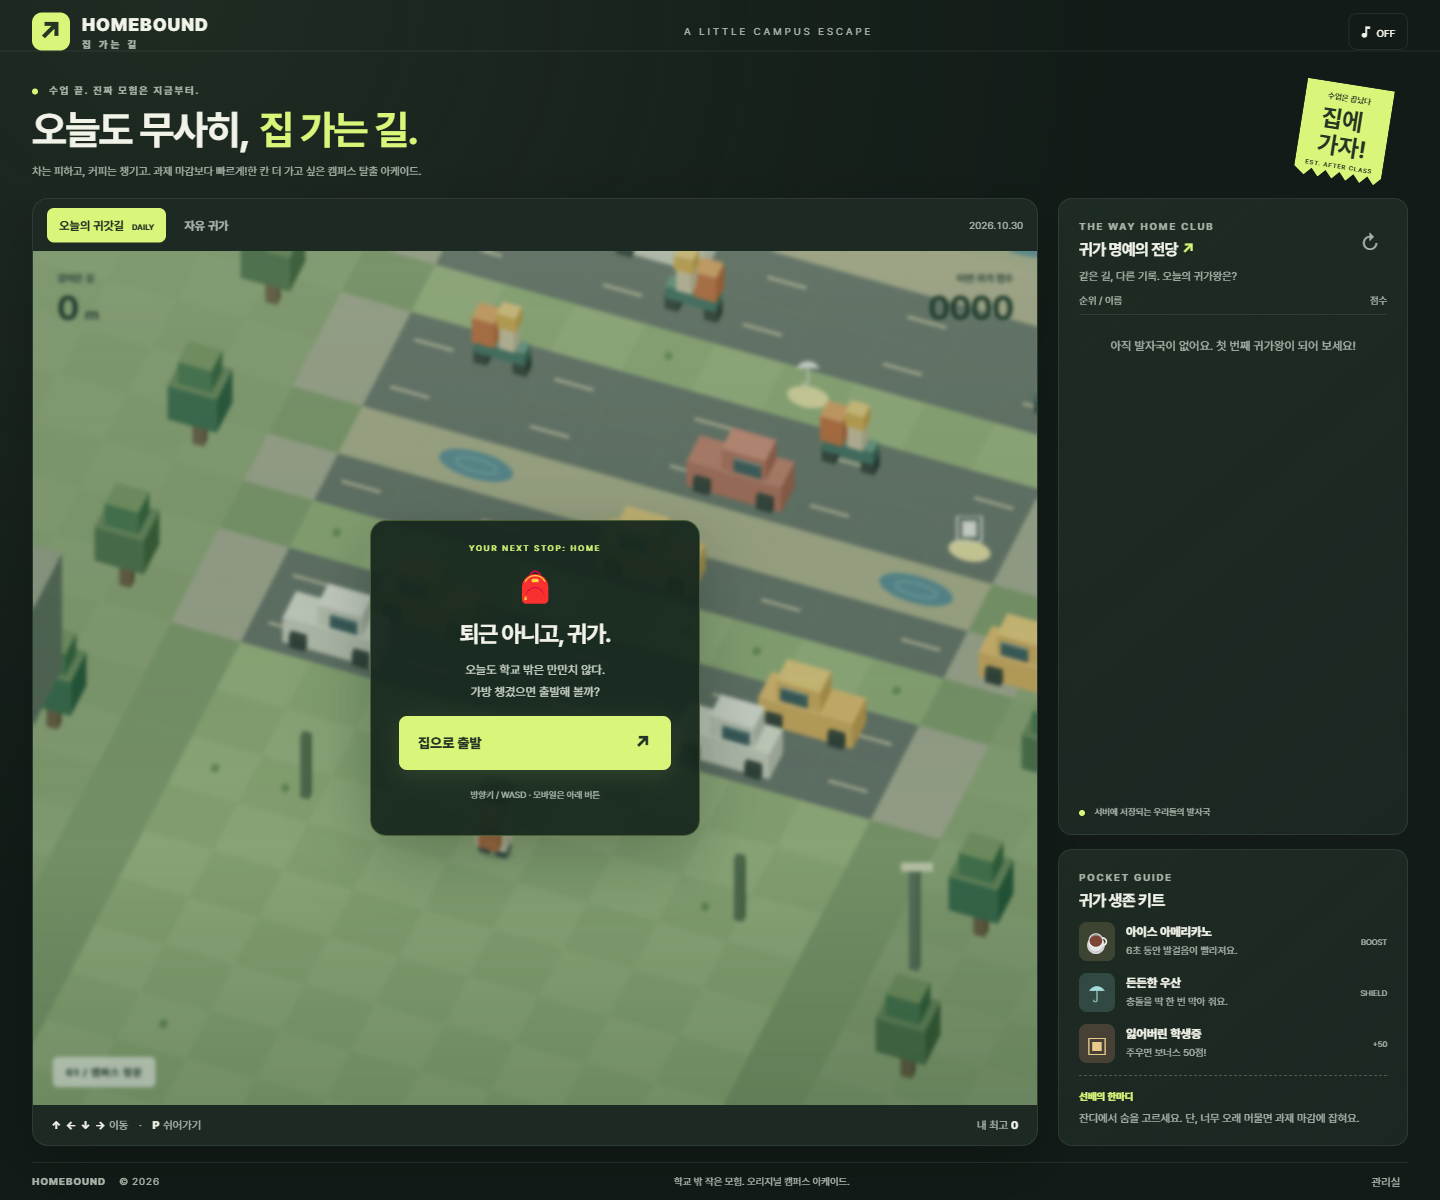
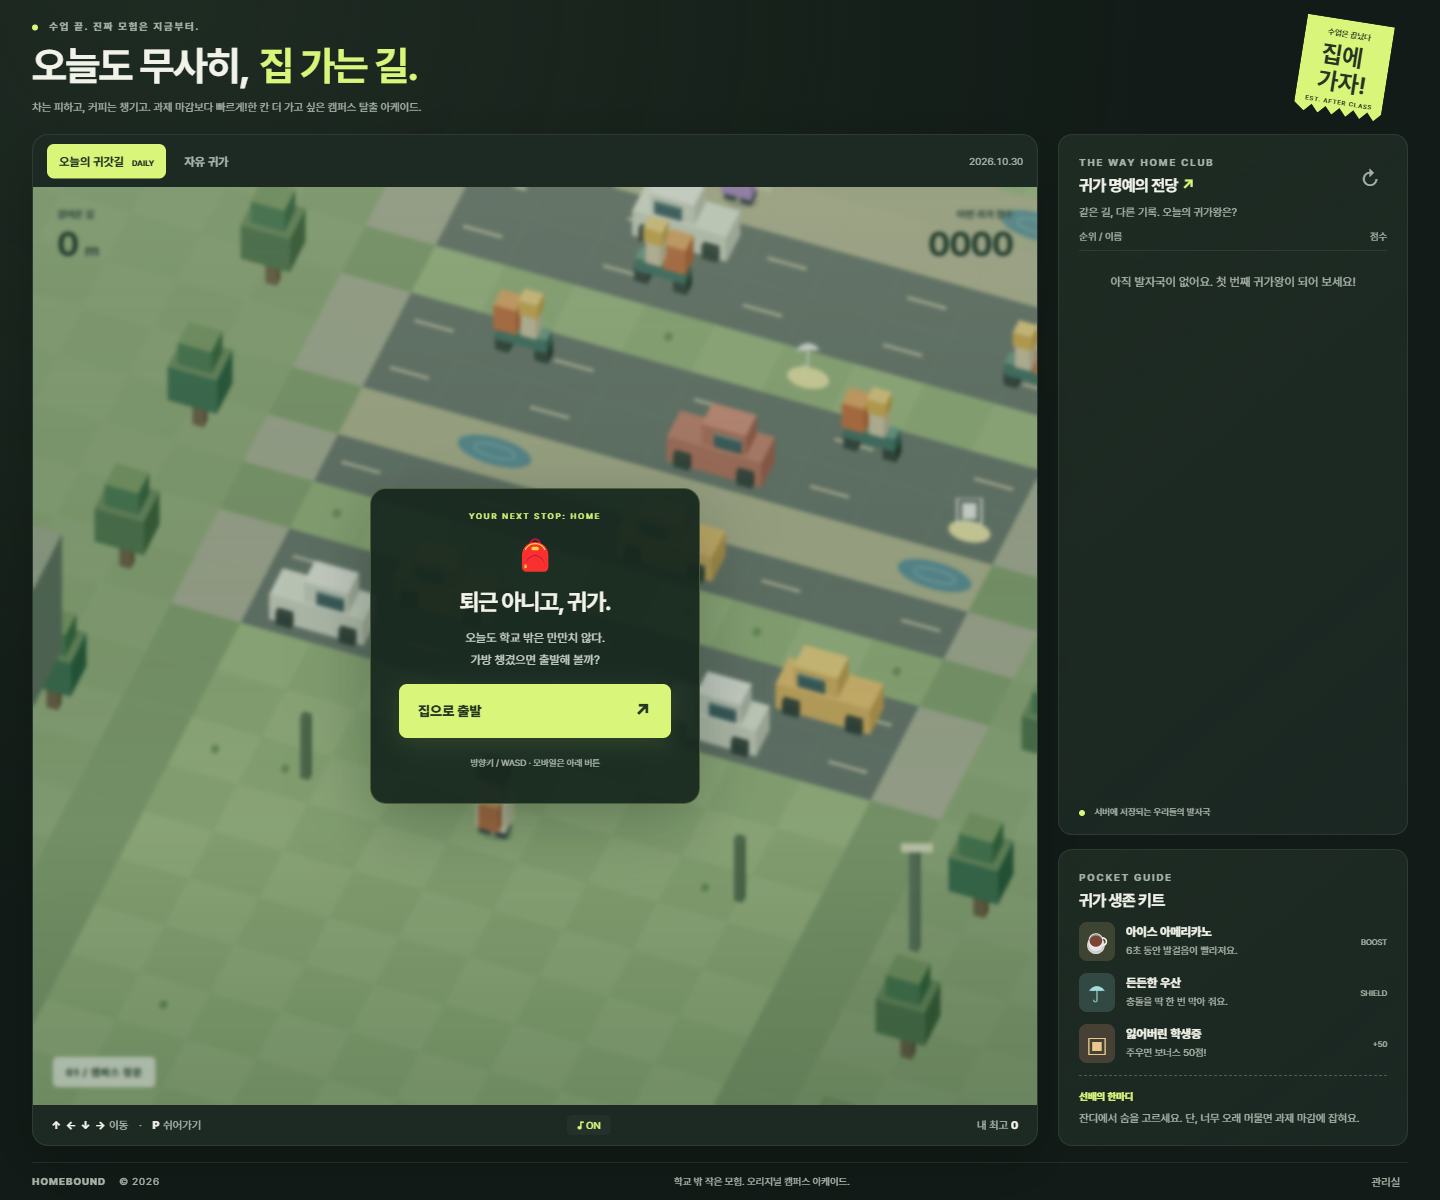
feat: remove lobby header and enable game music and effects

diff --git a/students/202355513/app/game.js b/students/202355513/app/game.js
@@ -1,13 +1,15 @@
 import {lane, obstacles, collision, score, random} from './engine.js';
+import {GameAudio} from './audio.js';
 const $ = id => document.getElementById(id);
 const canvas = $('game'), ctx = canvas.getContext('2d');
 let mode = 'daily', phase = 'welcome', run = null, config = {deadlineSeconds:18,trafficSpeed:1};
 let x = 4, row = 0, distance = 0, cards = 0, elapsed = 0, lastProgress = 0, lastMove = -1;
 let shield = false, boostUntil = 0, invincibleUntil = 0, effectUntil = 0, camera = 0, visualX = 4, visualRow = 0;
-let collected = new Set(), lanes = new Map(), lastFrame = 0, previewTime = 0, sound = false, audio;
+let collected = new Set(), lanes = new Map(), lastFrame = 0, previewTime = 0;
+const audio = new GameAudio();
 let best = 0, rankRequest = 0;
 const shell = $('game-shell');
-const lobbyElements = document.querySelectorAll('.header, .intro, aside, .notes, footer');
+const lobbyElements = document.querySelectorAll('.intro, aside, .notes, footer');
 let focused = false, nativeFullscreen = false;
 function setFocused(value) {
   focused = value;
@@ -45,8 +47,7 @@ async function api(path, options = {}) {
   return data;
 }
 function beep(freq = 440, duration = .06) {
-  if (!sound) return;
-  try { audio ||= new (window.AudioContext || window.webkitAudioContext)(); audio.resume(); const oscillator = audio.createOscillator(), gain = audio.createGain(); oscillator.type = 'sine'; oscillator.frequency.value = freq; gain.gain.setValueAtTime(.045,audio.currentTime); gain.gain.exponentialRampToValueAtTime(.001,audio.currentTime+duration); oscillator.connect(gain).connect(audio.destination); oscillator.start(); oscillator.stop(audio.currentTime+duration); } catch {}
+  audio.effect(freq, duration);
 }
 function toast(message, seconds = 2) { $('effect').textContent = message; effectUntil = elapsed + seconds; }
 function getLane(r) { if (!lanes.has(r)) lanes.set(r,lane(run?.seed || 1729,r)); return lanes.get(r); }
@@ -77,6 +78,7 @@ function setMode(next) {
 }
 async function start() {
   if (phase === 'starting') return;
+  audio.unlock();
   phase = 'starting'; $('start-error').textContent = ''; $('save-message').textContent = ''; $('start').disabled = true; $('retry').disabled = true;
   $('exit-focus').disabled = true;
   setFocused(true);
@@ -84,20 +86,21 @@ async function start() {
     run = await api('/api/runs',{method:'POST',body:JSON.stringify({mode})}); config = run.config;
     x=4;row=0;distance=0;cards=0;elapsed=0;lastProgress=0;lastMove=-1;camera=0;visualX=4;visualRow=0;shield=false;boostUntil=0;invincibleUntil=0;collected=new Set();lanes=new Map();
     $('welcome').hidden=true; $('result').hidden=true; $('paused').hidden=true; $('pause').hidden=false; $('deadline').hidden=false; $('effect').textContent=''; $('save').disabled=false; $('save-form').hidden=false;
-    $('daily').disabled=true; $('endless').disabled=true; phase='playing'; updateHUD(); canvas.focus({preventScroll:true}); beep(660,.1);
+    $('daily').disabled=true; $('endless').disabled=true; phase='playing'; audio.setPlaying(true); updateHUD(); canvas.focus({preventScroll:true}); beep(660,.1);
   } catch (error) { phase='welcome'; setFocused(false); $('daily').disabled=false; $('endless').disabled=false; $('result').hidden=true; $('welcome').hidden=false; $('start-error').textContent=`출발 준비 실패: ${error.message} 다시 눌러 주세요.`; }
   finally { $('start').disabled=false; $('retry').disabled=false; $('exit-focus').disabled=false; }
 }
 function finish(reason) {
   if (phase!=='playing') return;
+  audio.setPlaying(false);
   phase='over'; $('pause').hidden=true; $('deadline').hidden=true; $('effect').textContent=''; $('result').hidden=false;
   $('reason').textContent=reason; $('final-score').textContent=score(distance,cards).toLocaleString(); $('final-distance').textContent=`${distance}m 걸음 · 학생증 ${cards}개 수집`;
   $('result-title').textContent = distance >= 65 ? '귀가의 달인 인정!' : distance >= 30 ? '집이 보일 뻔했는데!' : '오늘의 귀가 종료!';
   best=Math.max(best,score(distance,cards)); try { localStorage.setItem('homebound-best',String(best)); } catch {}
   $('best').innerHTML=`내 최고 <b>${best}</b>`; beep(150,.25); $('nickname').focus({preventScroll:true});
 }
-function pause() { if(phase==='playing'){phase='paused';$('paused').hidden=false;$('resume').focus({preventScroll:true});} }
-function resume() { if(phase==='paused'){setFocused(true);phase='playing';$('paused').hidden=true;canvas.focus({preventScroll:true});} }
+function pause() { if(phase==='playing'){phase='paused';audio.setPlaying(false);$('paused').hidden=false;$('resume').focus({preventScroll:true});} }
+function resume() { if(phase==='paused'){audio.unlock();setFocused(true);phase='playing';audio.setPlaying(true);$('paused').hidden=true;canvas.focus({preventScroll:true});} }
 function move(direction) {
   const inputTime = performance.now() / 1000;
   if(phase!=='playing' || inputTime-lastMove < (elapsed<boostUntil?.115:.17)) return;
@@ -195,7 +198,7 @@ $('start').onclick=start;$('retry').onclick=start;$('pause').onclick=pause;$('re
 $('exit-focus').onclick=showLobby;$('fullscreen').onclick=toggleFullscreen;
 $('daily').onclick=()=>setMode('daily');$('endless').onclick=()=>setMode('endless');$('refresh').onclick=refreshRanking;
 $('back').onclick=()=>{phase='welcome';setFocused(false);run=null;lanes.clear();row=0;distance=0;cards=0;x=4;camera=0;shield=false;invincibleUntil=0;$('result').hidden=true;$('welcome').hidden=false;$('daily').disabled=false;$('endless').disabled=false;updateHUD();$('start').focus({preventScroll:true});};
-$('sound').onclick=()=>{sound=!sound;$('sound').setAttribute('aria-pressed',String(sound));$('sound').querySelector('span').textContent=sound?'ON':'OFF';$('sound').title=sound?'효과음 끄기':'효과음 켜기';beep(700);};
+$('sound').onclick=()=>{audio.setEnabled(!audio.enabled);$('sound').setAttribute('aria-pressed',String(audio.enabled));$('sound').querySelector('span').textContent=audio.enabled?'ON':'OFF';$('sound').title=audio.enabled?'배경음과 효과음 끄기':'배경음과 효과음 켜기';$('sound').setAttribute('aria-label',$('sound').title);};
 document.addEventListener('keydown',event=>{if($('admin-dialog').open)return;const key=event.key.toLowerCase();if(key==='escape'&&focused&&!document.fullscreenElement){event.preventDefault();showLobby();return;}if(['INPUT','TEXTAREA'].includes(event.target.tagName))return;const directions={arrowup:'up',w:'up',arrowdown:'down',s:'down',arrowleft:'left',a:'left',arrowright:'right',d:'right'};if(directions[key]&&phase==='playing'){event.preventDefault();move(directions[key]);}if(key==='p'&&!event.repeat){if(phase==='playing')pause();else if(phase==='paused')resume();}});
 document.querySelectorAll('[data-move]').forEach(button=>button.addEventListener('pointerdown',event=>{event.preventDefault();move(button.dataset.move);}));
 let touchStart=null;canvas.addEventListener('pointerdown',event=>{touchStart=[event.clientX,event.clientY];});canvas.addEventListener('pointerup',event=>{if(!touchStart)return;const dx=event.clientX-touchStart[0],dy=event.clientY-touchStart[1];touchStart=null;if(Math.max(Math.abs(dx),Math.abs(dy))<15)move('up');else move(Math.abs(dx)>Math.abs(dy)?dx>0?'right':'left':dy>0?'down':'up');});canvas.addEventListener('pointercancel',()=>touchStart=null);

diff --git a/students/202355513/app/audio.js b/students/202355513/app/audio.js
@@ -1,0 +1,102 @@
+// Original, lightweight arcade music. No audio downloads or third-party tracks.
+export class GameAudio {
+  enabled = true;
+  musicPlaying = false;
+  context = null;
+  timer = null;
+  notes = new Set();
+  step = 0;
+  nextBeat = 0;
+
+  unlock() {
+    if (!this.enabled) return;
+    try {
+      if (!this.context) {
+        const Audio = window.AudioContext || window.webkitAudioContext;
+        if (!Audio) return;
+        this.context = new Audio();
+        this.music = this.context.createGain();
+        this.music.gain.value = .18;
+        this.music.connect(this.context.destination);
+        this.effects = this.context.createGain();
+        this.effects.gain.value = .4;
+        this.effects.connect(this.context.destination);
+      }
+      this.context.resume().then(() => this.syncMusic()).catch(() => {});
+    } catch { /* Audio support is optional; gameplay stays available. */ }
+  }
+
+  tone(frequency, duration, when, volume, type, bus, music = false) {
+    const ctx = this.context;
+    if (!ctx || ctx.state !== 'running' || !this.enabled) return;
+    const oscillator = ctx.createOscillator(), gain = ctx.createGain();
+    oscillator.type = type;
+    oscillator.frequency.value = frequency;
+    gain.gain.setValueAtTime(0, when);
+    gain.gain.linearRampToValueAtTime(volume, when + .008);
+    gain.gain.exponentialRampToValueAtTime(.0001, when + duration);
+    oscillator.connect(gain).connect(bus);
+    const note = {oscillator, gain, music};
+    this.notes.add(note);
+    oscillator.onended = () => { oscillator.disconnect(); gain.disconnect(); this.notes.delete(note); };
+    oscillator.start(when);
+    oscillator.stop(when + duration + .01);
+  }
+
+  effect(frequency = 440, duration = .06) {
+    if (this.context) this.tone(frequency, duration, this.context.currentTime, .12, 'sine', this.effects);
+  }
+
+  setPlaying(value) {
+    this.musicPlaying = value;
+    this.syncMusic();
+  }
+
+  setEnabled(value) {
+    this.enabled = value;
+    if (value) this.unlock();
+    this.syncMusic();
+    if (!value) this.stopNotes(false);
+  }
+
+  stopNotes(musicOnly) {
+    for (const note of this.notes) {
+      if (musicOnly && !note.music) continue;
+      note.gain.gain.cancelScheduledValues(this.context.currentTime);
+      note.gain.gain.setValueAtTime(0, this.context.currentTime);
+      try { note.oscillator.stop(); } catch {}
+      this.notes.delete(note);
+    }
+  }
+
+  syncMusic() {
+    const active = this.enabled && this.musicPlaying && this.context?.state === 'running';
+    if (!active) {
+      clearInterval(this.timer);
+      this.timer = null;
+      if (this.context) this.stopNotes(true);
+      return;
+    }
+    if (this.timer) return;
+    this.nextBeat = this.context.currentTime + .04;
+    this.schedule();
+    this.timer = setInterval(() => this.schedule(), 60);
+  }
+
+  schedule() {
+    if (!this.context || this.context.state !== 'running') return;
+    // A four-bar pentatonic melody over C / Am / F / G, at 112 BPM.
+    const melody = [72,76,79,76,74,72,67,0,69,72,76,79,76,72,69,0,
+                    77,79,81,79,77,76,72,0,74,79,76,74,72,67,72,0];
+    const bass = [48,45,41,43];
+    if (this.nextBeat < this.context.currentTime) this.nextBeat = this.context.currentTime + .02;
+    while (this.nextBeat < this.context.currentTime + .12) {
+      const pitch = melody[this.step % melody.length];
+      const frequency = midi => 440 * 2 ** ((midi - 69) / 12);
+      if (pitch) this.tone(frequency(pitch), .21, this.nextBeat, .12, 'triangle', this.music, true);
+      if (this.step % 2 === 0) this.tone(frequency(bass[Math.floor(this.step / 8) % 4]), .32, this.nextBeat, .16, 'sine', this.music, true);
+      this.step++;
+      this.nextBeat += 60 / 112 / 2;
+    }
+  }
+}

diff --git a/students/202355513/app/index.html b/students/202355513/app/index.html
@@ -2,7 +2,6 @@
 <html lang="ko">
 <head><meta charset="utf-8"><meta name="viewport" content="width=device-width, initial-scale=1"><meta name="theme-color" content="#151c18"><title>집 가는 길 · HOMEBOUND</title><link rel="stylesheet" href="/style.css"></head>
 <body>
-<header class="header"><a class="brand" href="/" aria-label="집 가는 길 홈"><span class="brand-icon">↗</span><span>HOMEBOUND<span class="brand-ko">집 가는 길</span></span></a><span class="header-label">A LITTLE CAMPUS ESCAPE</span><button id="sound" class="icon-button" aria-pressed="false" title="효과음 켜기">♪ <span>OFF</span></button></header>
 <main>
   <section class="intro"><div><div class="eyebrow"><span class="live-dot"></span> 수업 끝. 진짜 모험은 지금부터.</div><h1>오늘도 무사히,<br><span>집 가는 길.</span></h1><p>차는 피하고, 커피는 챙기고. 과제 마감보다 빠르게!<br>한 칸 더 가고 싶은 캠퍼스 탈출 아케이드.</p></div><div class="intro-stamp"><span>수업은 끝났다</span><strong>집에<br>가자!</strong><small>EST. AFTER CLASS</small></div></section>
   <div class="layout">
@@ -19,7 +18,7 @@
       <div class="overlay" id="paused" hidden><div class="welcome-card"><div class="ticket-label">TAKE A BREATHER</div><h2>잠깐 쉬어 가자.</h2><p>쉬는 동안은 마감도 기다려 줘요.</p><button id="resume" class="primary">계속 걷기 ↗</button></div></div>
       <div class="overlay" id="result" hidden><div class="welcome-card result-card"><div class="ticket-label">TODAY'S WALK RECEIPT</div><h2 id="result-title">오늘의 귀가 종료!</h2><p id="reason"></p><div class="receipt"><span>최종 점수</span><strong id="final-score">0</strong><small id="final-distance"></small></div><form id="save-form"><label for="nickname">랭킹에 남길 이름</label><div class="save-row"><input id="nickname" name="nickname" maxlength="12" placeholder="집가고싶은사람" required autocomplete="nickname"><button id="save" type="submit">기록 저장</button></div></form><p id="save-message" role="status"></p><button id="retry" class="primary">한 번만 더 <span>↻</span></button><button id="back" class="text-button">모드 선택으로 돌아가기</button></div></div>
     </div>
-    <div class="game-bottom"><span><b>↑ ← ↓ →</b> 이동 <i>·</i> <b>P</b> 쉬어가기</span><span id="best">내 최고 <b>0</b></span></div>
+    <div class="game-bottom"><span><b>↑ ← ↓ →</b> 이동 <i>·</i> <b>P</b> 쉬어가기</span><button id="sound" class="sound-toggle" aria-pressed="true" aria-label="배경음과 효과음 끄기" title="배경음과 효과음 끄기">♪ <span>ON</span></button><span id="best">내 최고 <b>0</b></span></div>
     <div class="touch-controls" aria-label="터치 이동"><button data-move="up" aria-label="앞으로">↑</button><div><button data-move="left" aria-label="왼쪽">←</button><button data-move="down" aria-label="뒤로">↓</button><button data-move="right" aria-label="오른쪽">→</button></div></div>
   </section>
   <aside>

diff --git a/students/202355513/tests/browser/audio.spec.js b/students/202355513/tests/browser/audio.spec.js
@@ -1,0 +1,39 @@
+import {test, expect} from '@playwright/test';
+
+test('audio defaults on, starts after a gesture, and stops on mute and pause', async ({page}) => {
+  await page.addInitScript(() => {
+    const Native = window.AudioContext;
+    window.audioStats = {contexts: [], started: 0};
+    window.AudioContext = class extends Native {
+      constructor(...args) { super(...args); window.audioStats.contexts.push(this); }
+      createOscillator() {
+        const node = super.createOscillator(), start = node.start.bind(node);
+        node.start = (...args) => { window.audioStats.started++; return start(...args); };
+        return node;
+      }
+    };
+  });
+  await page.goto('/');
+  await expect(page.locator('header')).toHaveCount(0);
+  await expect(page.locator('#sound')).toHaveAttribute('aria-pressed','true');
+  expect(await page.evaluate(()=>window.audioStats.contexts.length)).toBe(0);
+  await page.locator('#start').click();
+  await expect(page.locator('#welcome')).toBeHidden();
+  await expect.poll(()=>page.evaluate(()=>window.audioStats.contexts[0]?.state)).toBe('running');
+  await expect.poll(()=>page.evaluate(()=>window.audioStats.started)).toBeGreaterThan(5);
+  await page.locator('#sound').click();
+  await expect(page.locator('#sound')).toHaveAttribute('aria-pressed','false');
+  const muted = await page.evaluate(()=>window.audioStats.started);
+  await page.locator('#game').focus();
+  await page.keyboard.press('ArrowUp');
+  await page.waitForTimeout(400);
+  expect(await page.evaluate(()=>window.audioStats.started)).toBe(muted);
+  await page.locator('#sound').click();
+  await expect.poll(()=>page.evaluate(()=>window.audioStats.started)).toBeGreaterThan(muted);
+  await page.locator('#pause').click();
+  const paused = await page.evaluate(()=>window.audioStats.started);
+  await page.waitForTimeout(400);
+  expect(await page.evaluate(()=>window.audioStats.started)).toBe(paused);
+  await page.locator('#resume').click();
+  await expect.poll(()=>page.evaluate(()=>window.audioStats.started)).toBeGreaterThan(paused);
+});

diff --git a/students/202355513/app/style.css b/students/202355513/app/style.css
@@ -12,7 +12,7 @@ body { background: radial-gradient(ellipse at 12% 0%, #30433266, transparent 55%
 
 /* A viewport-sized lobby on desktops and laptops; lists scroll inside panels. */
 @media (min-width: 900px) and (min-height: 480px) {
-  body { height: 100dvh; display: grid; grid-template-rows: 64px minmax(0, 1fr) 38px; overflow: hidden; }
+  body { height: 100dvh; display: grid; grid-template-rows: minmax(0, 1fr) 38px; overflow: hidden; }
   .header { width: 100%; max-width: 1680px; height: auto; padding: 0 32px; }
   main { width: 100%; height: 100%; margin: 0 auto; max-width: 1600px; min-height: 0; padding: 0 32px 16px; display: grid; grid-template-rows: auto minmax(0, 1fr); }
   .intro { padding: 20px 0 18px; }
@@ -70,7 +70,7 @@ body { background: radial-gradient(ellipse at 12% 0%, #30433266, transparent 55%
   .primary { transition: none; }
 }
 @media (min-width: 900px) and (min-height: 480px) and (max-height: 620px) {
-  body { grid-template-rows: 50px minmax(0, 1fr) 28px; }
+  body { grid-template-rows: minmax(0, 1fr) 28px; }
   footer { min-height: 0; }
   footer .text-button { padding: 4px 8px; }
   .intro { padding: 8px 0; }
@@ -85,6 +85,8 @@ body { background: radial-gradient(ellipse at 12% 0%, #30433266, transparent 55%
 
 /* Playing uses the entire viewport; native fullscreen is an optional extra. */
 .game-actions { display: flex; align-items: center; gap: 9px; }
+.sound-toggle { border: 0; border-radius: 5px; background: #ffffff08; color: var(--lime); padding: 4px 10px; font-size: 10px; }
+.sound-toggle[aria-pressed="false"] { color: var(--muted); }
 .focus-only { display: none; }
 body.is-playing { overflow: hidden; }
 .game-section.is-focused {

diff --git a/students/202355513/app/server.py b/students/202355513/app/server.py
@@ -99,7 +99,8 @@ class Handler(BaseHTTPRequestHandler):
         files = {'/': ('index.html', 'text/html; charset=utf-8'),
                  '/style.css': ('style.css', 'text/css; charset=utf-8'),
                  '/game.js': ('game.js', 'text/javascript; charset=utf-8'),
-                 '/engine.js': ('engine.js', 'text/javascript; charset=utf-8')}
+                 '/engine.js': ('engine.js', 'text/javascript; charset=utf-8'),
+                 '/audio.js': ('audio.js', 'text/javascript; charset=utf-8')}
         if url.path in files:
             filename, mime = files[url.path]
             return self.send(200, (ROOT / filename).read_bytes(), mime)

diff --git a/students/202355513/scripts/build_manifests.py b/students/202355513/scripts/build_manifests.py
@@ -17,7 +17,7 @@ def probe(path, period, failures):
 def build():
     K8S.mkdir(exist_ok=True)
     assets = {name: (ROOT / 'app' / name).read_text(encoding='utf-8')
-              for name in ['server.py', 'index.html', 'style.css', 'engine.js', 'game.js']}
+              for name in ['server.py', 'index.html', 'style.css', 'engine.js', 'game.js', 'audio.js']}
     write('app-configmap.yaml', resource('ConfigMap', 'homebound-app', data=assets))
     write('configmap.yaml', resource('ConfigMap', 'homebound-config', data={
         'GAME_TITLE': '집 가는 길', 'DEADLINE_SECONDS': '18', 'TRAFFIC_SPEED': '1', 'PORT': '8080'}))

diff --git a/students/202355513/tests/test_server.py b/students/202355513/tests/test_server.py
@@ -55,7 +55,7 @@ class ServerTests(unittest.TestCase):
             return response.status, json.loads(data) if response.headers['Content-Type'].startswith('application/json') else data
 
     def test_health_static_and_path_traversal(self):
-        for path in ['/health/live', '/health/ready', '/', '/game.js', '/engine.js', '/style.css']:
+        for path in ['/health/live', '/health/ready', '/', '/game.js', '/engine.js', '/audio.js', '/style.css']:
             self.assertEqual(self.request(path)[0], 200)
         self.assertEqual(self.request('/../server.py')[0], 404)
 
